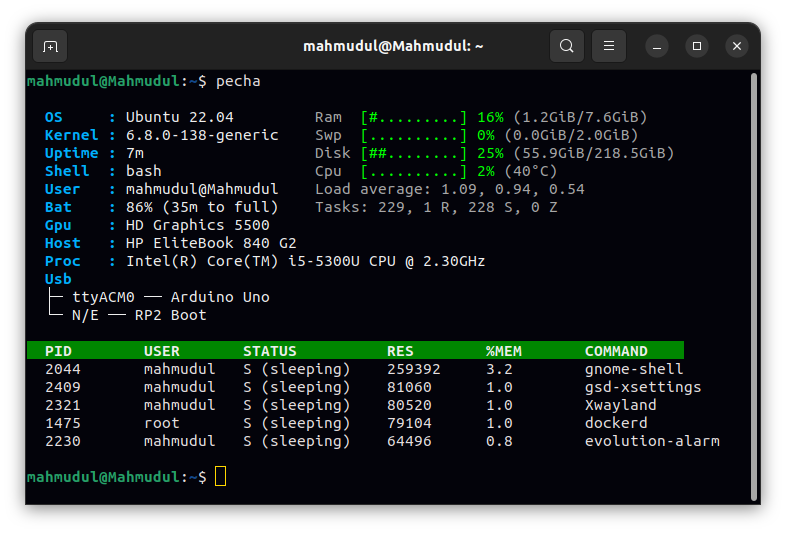
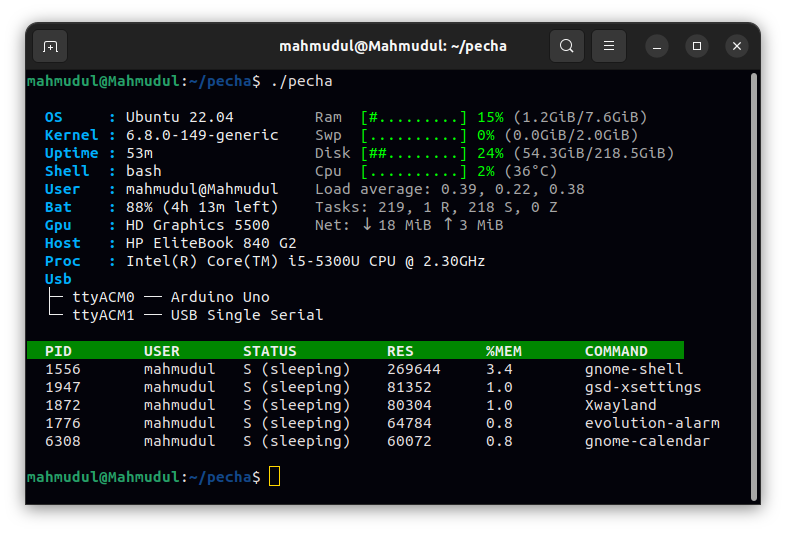
feat(net): add network traffic monitoring (RX/TX in MiB)
- Add src/net.c to detect active network interface via /sys/class/net and parse RX/TX stats from /proc/net/dev
- Display downloaded and uploaded data in MiB in the main UI
- Update Makefile, README.md, and demo screenshot

diff --git a/src/net.c b/src/net.c
@@ -1,0 +1,59 @@
+#include "../include/main.h"
+
+static int get_dev_name(char dev_name[50])
+{
+	struct dirent *a;
+	DIR *dir = opendir("/sys/class/net");
+	if(dir == NULL)
+		return 1;
+
+	char path[1024] = "/sys/class/net/";
+
+	while((a = readdir(dir)) != NULL) {
+		char buffer[50];
+		snprintf(path, sizeof(path), "/sys/class/net/%s/operstate", a->d_name);
+		FILE *file = fopen(path, "r");
+		if(file) {
+			fgets(buffer, sizeof(buffer), file);
+			buffer[strcspn(buffer, "\n")] = '\0';
+
+			if(strcmp(buffer, "up") == 0) {
+				strcpy(dev_name, a->d_name);
+			}
+			fclose(file);
+		}
+	}
+
+	closedir(dir);
+	return 0;
+}
+
+void get_net(int *d_mb, int *u_mb)
+{
+	char buffer[2024];
+	char dev_name[50];
+
+	int ret = get_dev_name(dev_name);
+	if(ret == 1) {
+		printf("Internet not connected\n");
+		return;
+	}
+
+	int len = strlen(dev_name);
+
+	FILE *file = fopen("/proc/net/dev", "r");
+        if(!file)
+                return;
+
+	while(fgets(buffer, sizeof(buffer), file) != NULL) {
+		if(strncmp(buffer+2, dev_name, len) == 0) {
+			int d = 0, u = 0;
+			if(sscanf(buffer+8, "%d %*d %*d %*d %*d %*d %*d %*d %d", &d, &u) == 2) {
+				*d_mb = d / (1024 * 1024);
+				*u_mb = u / (1024 * 1024);
+			}
+		}
+	}
+
+	fclose(file);
+}

diff --git a/src/main.c b/src/main.c
@@ -27,6 +27,8 @@ void print_ui() {
     load_avg(&get);
     cpu_per(&get);
     proc(&get, getplist, &pindex);
+    int download = 0, upload = 0;
+    get_net(&download, &upload);
 
     printf("\n");
 
@@ -80,8 +82,8 @@ void print_ui() {
     
     
     
-   // printf( HTOP_TEXT "Net: \u2191 195 kb/s \u2193 35 kb/s\n" RESET);
-      printf("\n");
+    printf( HTOP_TEXT "Net: \u2193 %d MiB \u2191 %d MiB\n" RESET, download, upload);
+
 
     printf("  " FETCH_KEY BOLD "%s" RESET FETCH_VAL "%s\n", "Host\t : ", get.sys_attr.product);
     

diff --git a/include/main.h b/include/main.h
@@ -108,5 +108,6 @@ void product_name(struct comp_info *);
 void temp(struct comp_info *);
 void usb(struct comp_info **, int *);
 void cpu_per(struct comp_info *);
+void get_net(int *, int *);
 
 #endif

diff --git a/README.md b/README.md
@@ -30,6 +30,8 @@
 
 - Performance Metrics: Tracks real-time memory consumption, disk occupancy, CPU load average, and live core temperature.
 
+- Network Traffic: Displays total downloaded (`↓`) and uploaded (`↑`) network data in MiB.
+
 #### Battery & Power Status
 
 - Battery Level: Real-time battery percentage tracking.
@@ -92,6 +94,7 @@ sudo make install
 - **Power & Battery:** Reads from `/sys/class/power_supply/` for battery and power information.
 - **USB Devices:** Enumerates devices from `/sys/bus/usb/devices/`.
 - **Temperature:** Reads thermal zone information from `/sys/class/thermal/`.
+- **Network:** Reads network interface statistics (RX/TX bytes) from `/proc/net/dev`.
 
 ## Uninstallation
 
